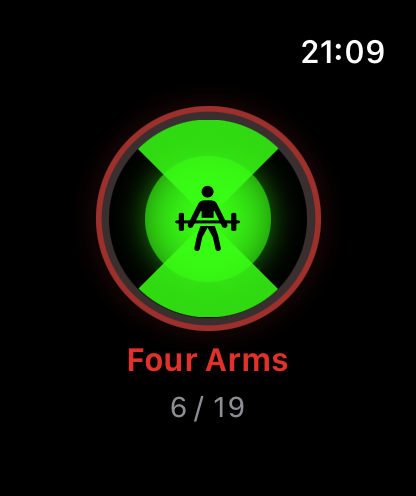
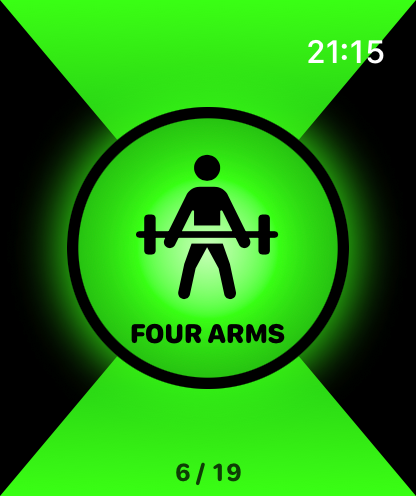
Full-screen Omnitrix face and alien artwork support
Edge-to-edge hourglass dial with a larger core. Aliens show artwork from
Assets.xcassets/AlienArt when present, SF Symbol otherwise. Add
Scripts/import-alien-art.sh to import images, and clarify in README and
LICENSE that character artwork is not MIT-licensed.

diff --git a/Omnitrix/Views/DialView.swift b/Omnitrix/Views/DialView.swift
@@ -1,68 +1,66 @@
 import SwiftUI
 
-/// The Omnitrix face: a dark dial with a glowing hourglass and the
-/// currently selected alien's silhouette in the core.
+/// The Omnitrix face, edge to edge: a green hourglass running from the screen
+/// corners to the centre, and a glowing core showing the selected alien.
 struct DialView: View {
     let alien: Alien
     let total: Int
 
     var body: some View {
-        VStack(spacing: 4) {
-            GeometryReader { geo in
-                let size = min(geo.size.width, geo.size.height)
-                ZStack {
-                    // Outer bezel
-                    Circle()
-                        .fill(Color(white: 0.18))
-                    Circle()
-                        .strokeBorder(alien.color.opacity(0.6), lineWidth: size * 0.025)
-                        .shadow(color: alien.color.opacity(0.7), radius: 6)
+        GeometryReader { geo in
+            let w = geo.size.width
+            let h = geo.size.height
+            let core = min(w, h) * 0.68
 
-                    // Face with hourglass
-                    Circle()
-                        .fill(.black)
-                        .padding(size * 0.06)
-                    HourglassShape()
-                        .fill(Color.omnitrixGreen.opacity(0.85))
-                        .padding(size * 0.06)
-                        .clipShape(Circle().inset(by: size * 0.06))
+            ZStack {
+                Color.black
 
-                    // Core window showing the selected alien
-                    Circle()
-                        .fill(
-                            RadialGradient(
-                                colors: [Color.omnitrixGreen, Color.omnitrixGreen.opacity(0.55)],
-                                center: .center,
-                                startRadius: 0,
-                                endRadius: size * 0.3
-                            )
+                HourglassShape()
+                    .fill(
+                        LinearGradient(
+                            colors: [Color.omnitrixGreen, Color(hex: 0x1FA80F), Color.omnitrixGreen],
+                            startPoint: .top,
+                            endPoint: .bottom
                         )
-                        .frame(width: size * 0.56, height: size * 0.56)
-                        .shadow(color: .omnitrixGreen.opacity(0.8), radius: 8)
+                    )
 
-                    Image(systemName: alien.symbol)
-                        .resizable()
-                        .scaledToFit()
-                        .foregroundStyle(.black)
-                        .frame(width: size * 0.3, height: size * 0.3)
+                // Core window
+                Circle()
+                    .fill(
+                        RadialGradient(
+                            colors: [Color(hex: 0xC8FFB8), Color.omnitrixGreen, Color(hex: 0x1FA80F)],
+                            center: .center,
+                            startRadius: 0,
+                            endRadius: core / 2
+                        )
+                    )
+                    .overlay(Circle().strokeBorder(.black, lineWidth: core * 0.04))
+                    .frame(width: core, height: core)
+                    .shadow(color: .omnitrixGreen.opacity(0.9), radius: 12)
+
+                VStack(spacing: core * 0.02) {
+                    AlienArtView(alien: alien, fallbackTint: .black)
+                        .frame(width: core * 0.58, height: core * 0.58)
                         .id(alien.id)
                         .transition(.scale(scale: 0.4).combined(with: .opacity))
+
+                    Text(alien.name.uppercased())
+                        .font(.system(size: core * 0.1, weight: .heavy, design: .rounded))
+                        .foregroundStyle(.black)
+                        .lineLimit(1)
+                        .minimumScaleFactor(0.5)
+                        .frame(maxWidth: core * 0.8)
                 }
-                .frame(width: size, height: size)
-                .position(x: geo.size.width / 2, y: geo.size.height / 2)
+                .frame(width: core, height: core)
+
+                Text("\(alien.id + 1) / \(total)")
+                    .font(.system(size: 13, weight: .bold, design: .rounded).monospacedDigit())
+                    .foregroundStyle(.black.opacity(0.75))
+                    .position(x: w / 2, y: h - 12)
             }
-
-            Text(alien.name)
-                .font(.headline)
-                .foregroundStyle(alien.color)
-                .lineLimit(1)
-                .minimumScaleFactor(0.6)
-                .id("name-\(alien.id)")
-
-            Text("\(alien.id + 1) / \(total)")
-                .font(.caption2.monospacedDigit())
-                .foregroundStyle(.secondary)
+            .frame(width: w, height: h)
         }
+        .ignoresSafeArea()
         .contentShape(Rectangle())
         .accessibilityElement(children: .ignore)
         .accessibilityLabel("Omnitrix dial, \(alien.name) selected")

diff --git a/Omnitrix/Views/AlienDetailView.swift b/Omnitrix/Views/AlienDetailView.swift
@@ -8,15 +8,16 @@ struct AlienDetailView: View {
     var body: some View {
         ScrollView {
             VStack(alignment: .leading, spacing: 8) {
-                HStack(spacing: 8) {
-                    Image(systemName: alien.symbol)
-                        .font(.title2)
-                        .foregroundStyle(alien.color)
-                    Text(alien.name)
-                        .font(.title3.bold())
-                        .lineLimit(2)
-                        .minimumScaleFactor(0.7)
-                }
+                AlienArtView(alien: alien, fallbackTint: alien.color)
+                    .frame(height: 110)
+                    .frame(maxWidth: .infinity)
+                    .shadow(color: alien.color.opacity(0.6), radius: 10)
+
+                Text(alien.name)
+                    .font(.title3.bold())
+                    .lineLimit(2)
+                    .minimumScaleFactor(0.7)
+                    .frame(maxWidth: .infinity)
 
                 InfoRow(label: "Species", value: alien.species)
                 if let homeworld = alien.homeworld {

diff --git a/Omnitrix/Views/AlienArtView.swift b/Omnitrix/Views/AlienArtView.swift
@@ -1,0 +1,23 @@
+import SwiftUI
+
+/// Shows the alien's artwork from the asset catalog (named `alien.artName`),
+/// or its SF Symbol if no artwork has been imported.
+struct AlienArtView: View {
+    let alien: Alien
+    /// Tint for the SF Symbol fallback (artwork keeps its own colours).
+    var fallbackTint: Color
+
+    var body: some View {
+        if let art = UIImage(named: alien.artName) {
+            Image(uiImage: art)
+                .resizable()
+                .scaledToFit()
+        } else {
+            Image(systemName: alien.symbol)
+                .resizable()
+                .scaledToFit()
+                .foregroundStyle(fallbackTint)
+                .padding(4)
+        }
+    }
+}

diff --git a/OmnitrixTests/AlienRosterTests.swift b/OmnitrixTests/AlienRosterTests.swift
@@ -26,6 +26,15 @@ final class AlienRosterTests: XCTestCase {
         }
     }
 
+    func testArtNamesAreLowercaseSlugs() {
+        XCTAssertEqual(AlienRoster.all[0].artName, "heatblast")
+        XCTAssertEqual(AlienRoster.all[4].artName, "greymatter")
+        XCTAssertEqual(AlienRoster.all[13].artName, "snareoh")
+        XCTAssertEqual(AlienRoster.all[18].artName, "waybig")
+        let slugs = AlienRoster.all.map(\.artName)
+        XCTAssertEqual(Set(slugs).count, slugs.count)
+    }
+
     func testCrownValueMapsToIndex() {
         XCTAssertEqual(AlienRoster.index(forCrownValue: 0), 0)
         XCTAssertEqual(AlienRoster.index(forCrownValue: 4.4), 4)

diff --git a/Omnitrix/Models/Alien.swift b/Omnitrix/Models/Alien.swift
@@ -15,6 +15,12 @@ struct Alien: Identifiable, Equatable {
     let colorHex: UInt32
 
     var color: Color { Color(hex: colorHex) }
+
+    /// Asset-catalog image name for this alien's artwork, e.g. "Grey Matter" -> "greymatter".
+    /// If no image with this name exists, the UI falls back to `symbol`.
+    var artName: String {
+        String(name.lowercased().unicodeScalars.filter(CharacterSet.alphanumerics.contains))
+    }
 }
 
 extension Color {

diff --git a/README.md b/README.md
@@ -7,13 +7,14 @@ A small watchOS fan app inspired by the original *Ben 10* series. Turn the **Dig
 | <img src="docs/dial.png" width="200"> | <img src="docs/transformed.png" width="200"> |
 
 > **Unofficial fan project, not affiliated with or endorsed by Cartoon Network or Warner Bros. Discovery.**
-> "Ben 10", "Omnitrix" and all character names belong to their respective owners. The repo contains no official artwork; aliens are shown with SF Symbols. It isn't on the App Store and never will be. It's for developers to build and run on their own watch.
+> "Ben 10", "Omnitrix", all character names and any character artwork belong to Cartoon Network / Warner Bros. Discovery. The source code is MIT; the artwork is **not** covered by that license. This app isn't on the App Store and never will be. It's for developers to build and run on their own watch, with no monetisation.
 
 ## Features
 
 - 19 original-series aliens, from Heatblast to Way Big
 - Digital Crown selection with haptic detents that wraps around both ways
-- Tap to transform: green flash, haptics, then the alien's species, homeworld and power
+- Full-screen, edge-to-edge Omnitrix face
+- Tap to transform: green flash, haptics, then the alien's art, species, homeworld and power
 - Revert back to the dial
 - Pure SwiftUI, watch-only app, no network, no data collected
 
@@ -43,6 +44,24 @@ cp Config/Local.xcconfig.example Config/Local.xcconfig
 
 > With a free Apple ID, the app's signing expires after 7 days. Just hit Run again to reinstall.
 
+## Alien artwork
+
+Each alien shows its artwork if there's an image for it in `Omnitrix/Assets.xcassets/AlienArt/`, and its SF Symbol if there isn't. To add or replace art, put the images in a folder, named after each alien (lowercase, letters/digits only):
+
+```
+heatblast  wildmutt  diamondhead  xlr8  greymatter  fourarms  stinkfly
+ripjaws  upgrade  ghostfreak  cannonbolt  wildvine  blitzwolfer  snareoh
+frankenstrike  upchuck  ditto  eyeguy  waybig
+```
+
+(`.png` with a transparent background looks best; `.jpg`/`.webp` work too.) Then run:
+
+```bash
+Scripts/import-alien-art.sh ~/path/to/your/images
+```
+
+The script resizes everything to max 400px and wires it into the asset catalog. Rebuild and you're done.
+
 No watch? Pick any Apple Watch simulator as the destination. In the simulator, scroll on the trackpad or mouse to turn the crown.
 
 ## Run the tests
@@ -59,10 +78,11 @@ xcodebuild test -project Omnitrix.xcodeproj -scheme Omnitrix \
 ```
 Omnitrix/
 ├── Models/       Alien + AlienRoster (the 19 aliens, crown → index mapping)
-├── Views/        DialView, TransformFlashView, AlienDetailView, ContentView
+├── Views/        DialView, AlienArtView, TransformFlashView, AlienDetailView, ContentView
 └── Assets.xcassets
 OmnitrixTests/    Roster + crown-wrap unit tests
 Config/           Shared xcconfig + your local signing override
+Scripts/          import-alien-art.sh
 project.yml       XcodeGen spec (optional: `xcodegen generate` rebuilds the .xcodeproj)
 ```
 
@@ -70,8 +90,8 @@ The `.xcodeproj` is committed, so you **don't** need XcodeGen to build. It's onl
 
 ## Contributing
 
-Issues and PRs are welcome. To add or tweak an alien, edit `Omnitrix/Models/AlienRoster.swift`. Please keep official artwork, logos and audio out of the repo.
+Issues and PRs are welcome. To add or tweak an alien, edit `Omnitrix/Models/AlienRoster.swift`.
 
 ## License
 
-[MIT](LICENSE) for the source code only. See the trademark note in the license.
+[MIT](LICENSE) for the source code only. Character names and artwork are the property of Cartoon Network / Warner Bros. Discovery and are included as an unofficial, non-commercial fan tribute. If you're a rights holder and want anything removed, open an issue and it'll be taken down.
